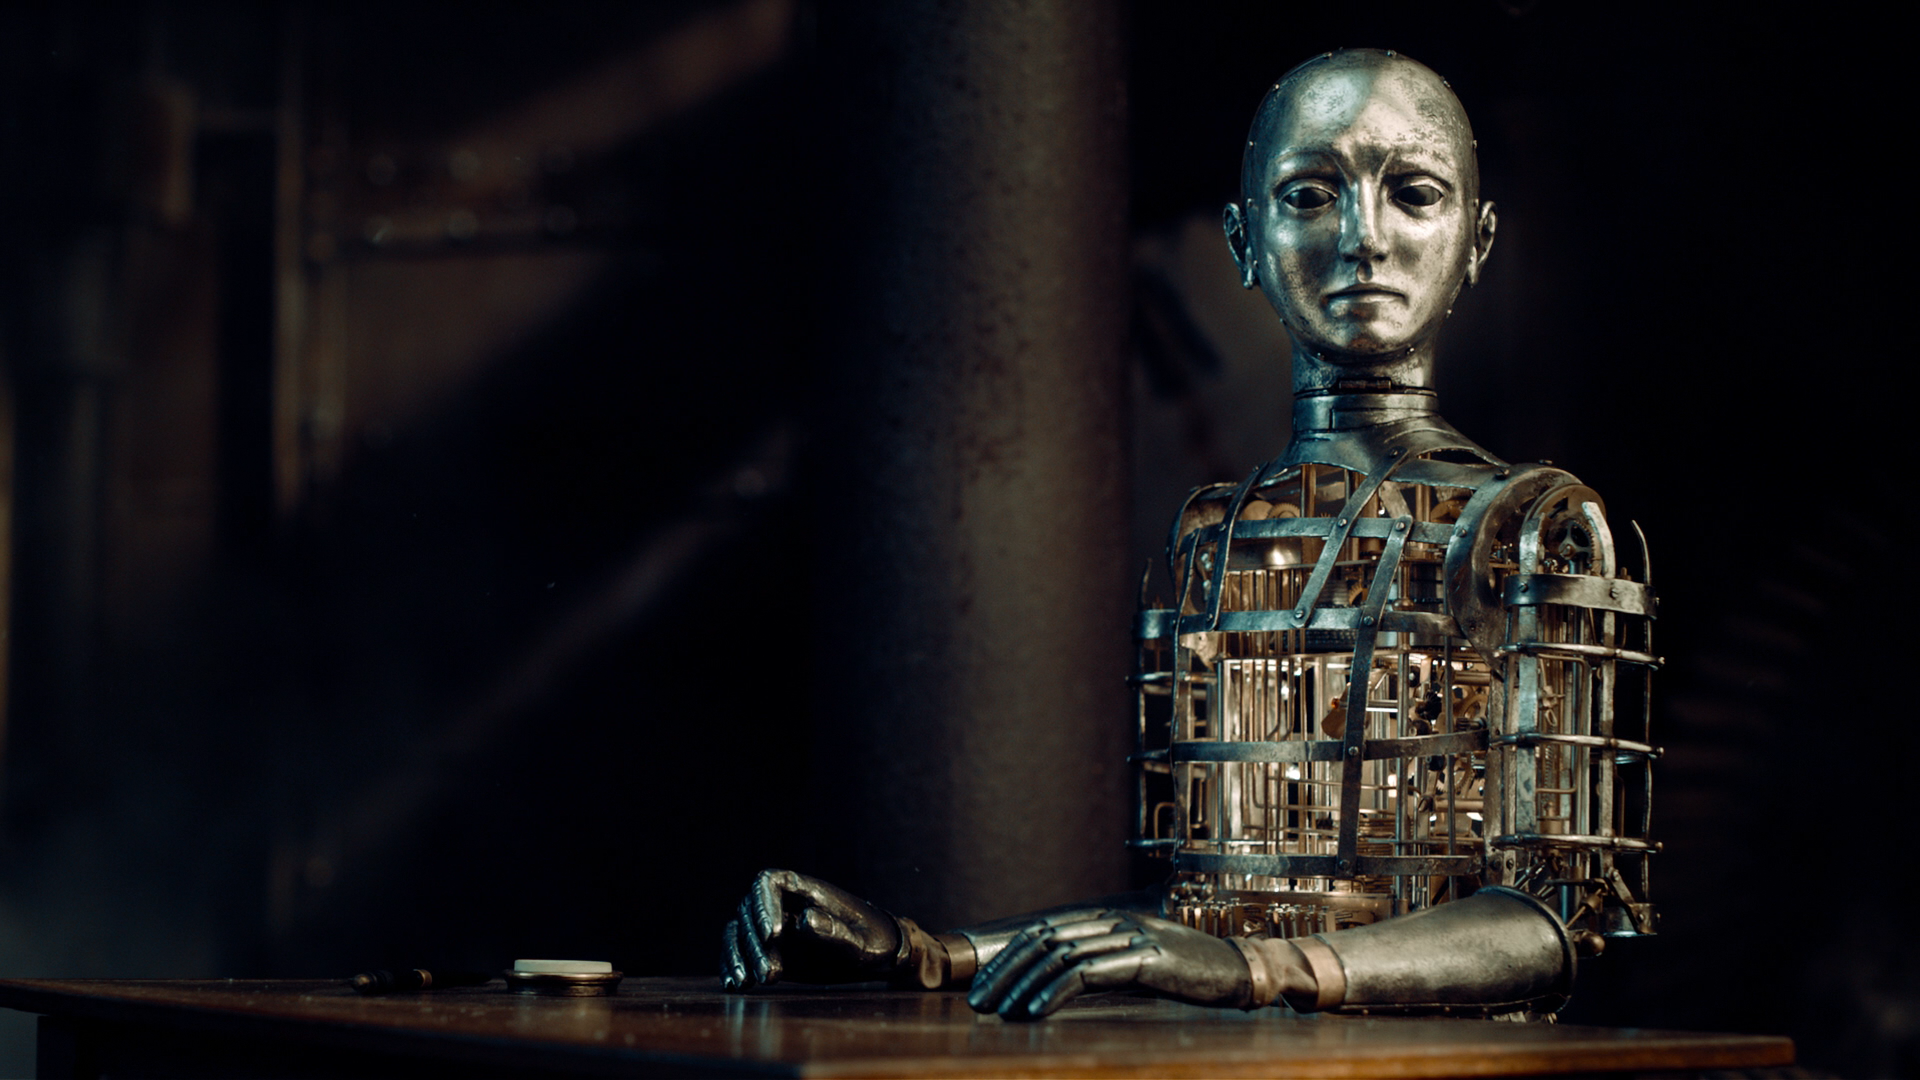
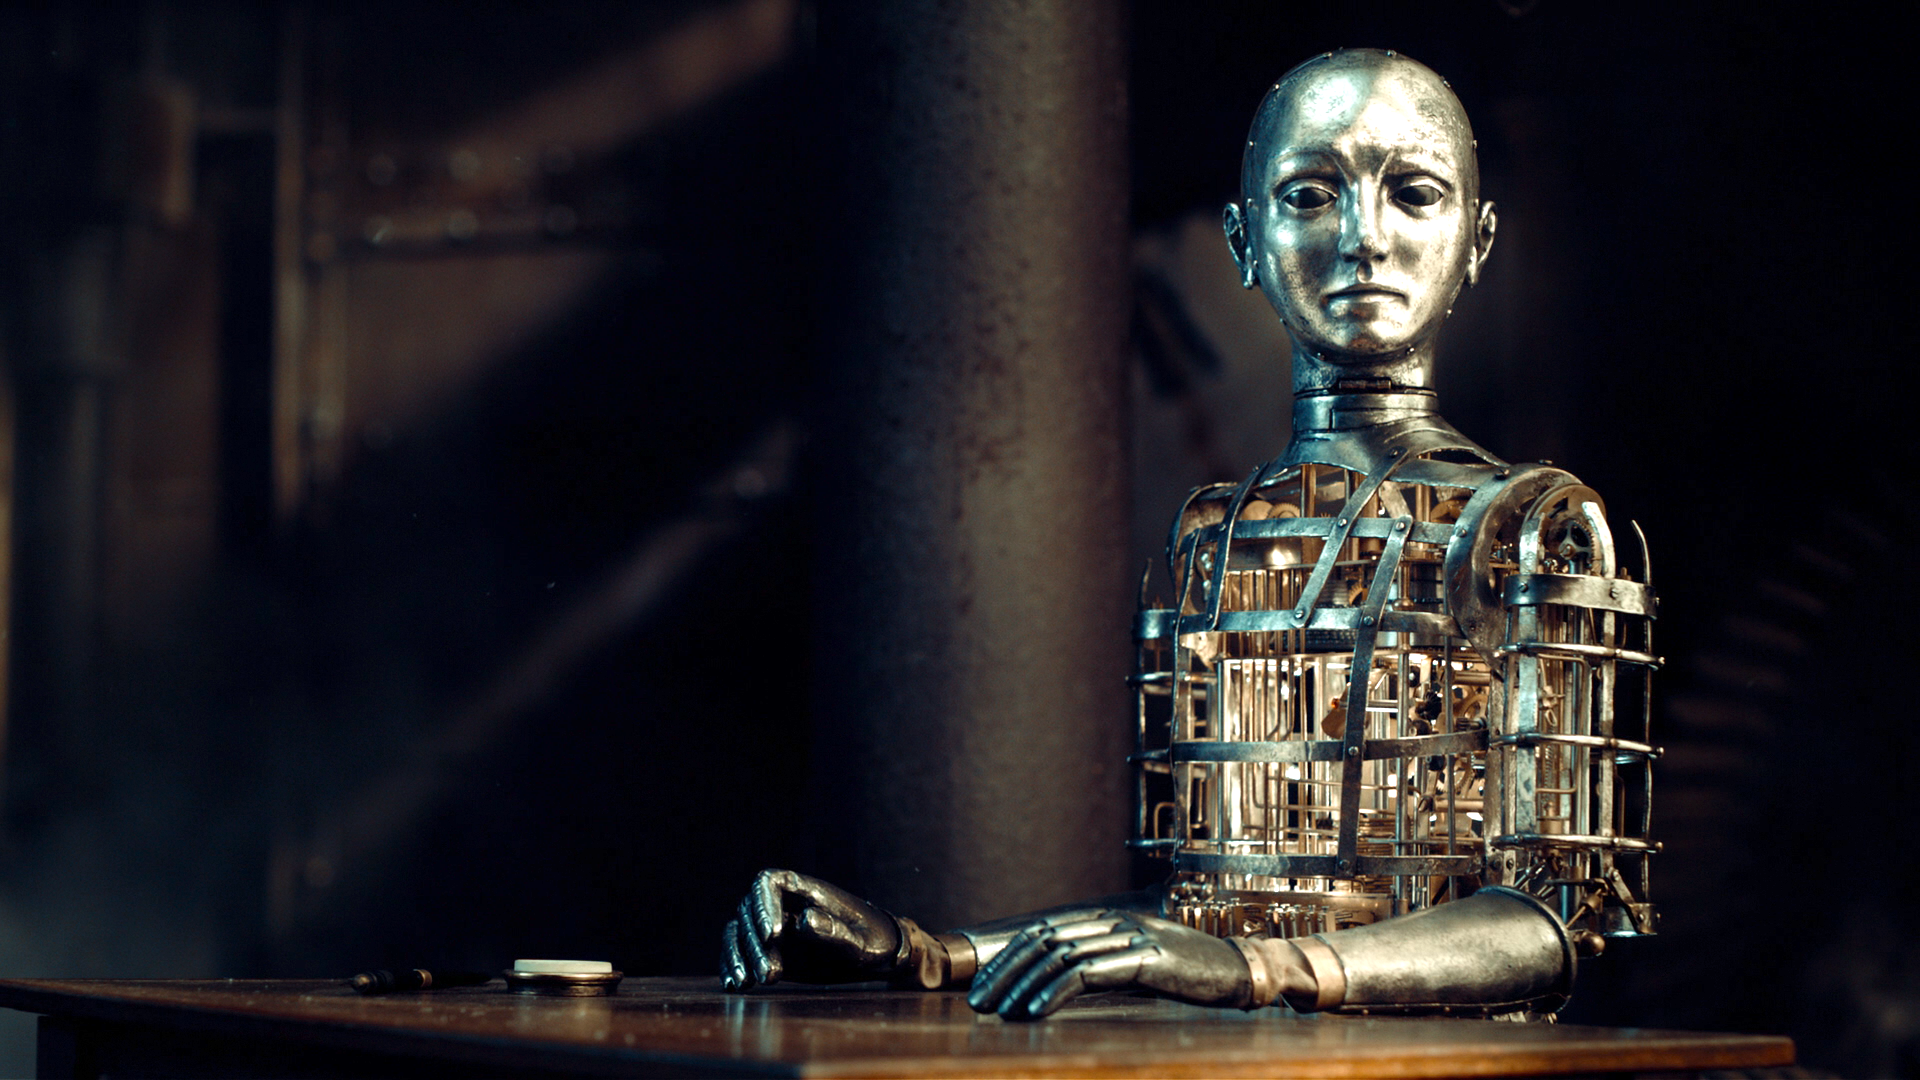
Changes for London presentation

Changed region(s): [[0.375, 0.0306, 0.875, 1.0], [0.5, 0.3667, 0.5625, 0.5806], [0.25, 0.8861, 0.3125, 0.9778]]

diff --git a/assets/themes/cef2018.css b/assets/themes/cef2018.css
@@ -66,7 +66,7 @@ body {
 
 .reveal h3 {
   font-size: 1.4em;
-  color: #28abe2;
+  color: #38bbf2;
   letter-spacing: 2px; }
 
 .reveal h4 {
@@ -78,7 +78,7 @@ body {
 
 .reveal h6 {
   font-size: 1.0em;
-  color: #28abe2; }
+  color: #38bbf2; }
 /*
 .reveal h1 {
   text-shadow: 0 1px 0 #ccc, 0 2px 0 #c9c9c9, 0 3px 0 #bbb, 0 4px 0 #b9b9b9, 0 5px 0 #aaa, 0 6px 1px rgba(0, 0, 0, 0.1), 0 0 5px rgba(0, 0, 0, 0.1), 0 1px 3px rgba(0, 0, 0, 0.3), 0 3px 5px rgba(0, 0, 0, 0.2), 0 5px 10px rgba(0, 0, 0, 0.25), 0 20px 20px rgba(0, 0, 0, 0.15); }
@@ -343,8 +343,8 @@ body {
 {
     border: none;
     box-shadow: none;
-    max-height: calc(75vh);
-    max-width: calc(75vw);
+    max-height: calc(55vh);
+    max-width: calc(55vw);
 }
 
 .slides {

diff --git a/index.html b/index.html
@@ -82,12 +82,11 @@
 				<section>
 					<section data-markdown="slides/04a-assessments.md"></section>
 				</section>
-
+-->
 
 				<section>
 					<section data-markdown="slides/05-considerations.md"></section>
 				</section>
- -->
  
 				<section>
 					<section data-markdown="slides/06-thanks.md"></section><!--  data-background="assets/tr_logo.jpg"></section> -->

diff --git a/slides/05-considerations.md b/slides/05-considerations.md
@@ -1,50 +1,47 @@
-### Culture
+### Takeaways
+
+<!-- .slide: data-background="../assets/takeaways/background.jpg" -->
+
+---
+
+### Takeaways: Culture
+
+<!-- .slide: data-background="../assets/takeaways/background.jpg" -->
 
 - People
-- Process
-- Technology
+  - Skills gaps
+- Process <!-- .element: class="fragment" -->
+  - How does your strategy align <span class="highlight">across</span> process types?
+- Technology <!-- .element: class="fragment" -->
+  - Choose the right tools for your <span class="highlight">culture</span>
 
 Notes:
-
-## The Goal
-
-<!-- - Sustainably enable growth whilst controlling costs -->
-  <!-- - Reduce complexity .element: class="fragment" -->
-  <!-- - Reduce time .element: class="fragment" -->
-  <!-- - Increase quality .element: class="fragment" -->
-  <!-- - Increase safety / reduce risk .element: class="fragment" -->
-
----
-
-### People
-
-- Skills gaps?
-- Anything else?
-
----
-
-### Process
-
-- How does your strategy align across process types?
-
-Note:
   - E.g. what are the overlaps between Innovation, BAU and support?
 
 ---
 
-### Technology
+### Takeaways: The Goal
 
-- Choose the right tools for the job?
-- Choose the right tools for your culture?
+<!-- .slide: data-background="../assets/takeaways/background.jpg" -->
+
+- Sustainably enable growth whilst controlling costs
+  - Reduce <span class="highlight">complexity</span>
+  - Reduce <span class="highlight">time</span>
+  - Increase <span class="highlight">quality</span>
+  - Increase <span class="highlight">safety</span> / reduce <span class="highlight">risk</span>
 
 ---
 
-### Culture: Process Automation Principles
+### Takeaways: Process Automation Principles
 
-- Continuous Improvement <!-- .element: class="fragment" -->
+<!-- .slide: data-background="../assets/takeaways/background.jpg" -->
+
+- Continuous Improvement
   - Do painful processes <span class="highlight">more</span> often!
-  - Build quality/safety in
-  - Create and shorten feedback loops
-  - Use metrics to measure progress
+  - Build quality/safety <span class="highlight">in</span>
+  - Create and shorten <span class="highlight">feedback loops</span>
+  - Use metrics to <span class="highlight">measure progress</span>
 - Fast and light <!-- .element: class="fragment" -->
-  - Smaller batches - faster feedback
+  - Make batches <span class="highlight">smaller</span> - faster feedback
+- Win over the business <!-- .element: class="fragment" -->
+  - <span class="highlight">Hack your culture</span>

diff --git a/slides/04c-disaster-recovery.md b/slides/04c-disaster-recovery.md
@@ -43,19 +43,4 @@
 
 ### Business Outcomes Delivered
 
-- Expert resource reduced <!-- .element: class="fragment" -->
-  - From: 4+
-  - To: 0
-- Total recovery time reduced <!-- .element: class="fragment" -->
-  - From: 6-8 hours
-  - To: < 15 mins
-- Painful event became painless <!-- .element: class="fragment" -->
-  - No longer feared
-- Opened the door to further innovation <!-- .element: class="fragment" -->
-  - Handling more obscure edge cases
-  - Automating customer runbooks
-- Quality and consitency went up <!-- .element: class="fragment" -->
-  - No human error
-- Self-service portal <!-- .element: class="fragment" -->
-- Simplified Operator Process <!-- .element: class="fragment" -->
-  - "Paper" to Digital (Many trees were saved!)
+<img data-src="assets/examples/dr/dr-outcomes.png">

diff --git a/slides/02b-bio.md b/slides/02b-bio.md
@@ -65,16 +65,7 @@ Note:
 
 ### Achievements
 
-- Cycle time: 3-12 months to 1 day <!-- .element: class="fragment" -->
-- Deployment issues: 30+/release to zero <!-- .element: class="fragment" -->
-- 2nd and 3rd-level support escalations: 80% reduction <!-- .element: class="fragment" -->
-- Engineer onboarding and server provisioning: weeks to minutes <!-- .element: class="fragment" -->
-- Reduced Engineering costs: £2m/year saving <!-- .element: class="fragment" -->
-
-Note:
-  - Apple store became the bottleneck for mobile!
-  - Self-service onboarding and provisioning!
-  - Improvements across People, Process and Tech
+<img data-src="assets/background/bio/achievements.png">
 
 ---
 

diff --git a/slides/02a-history.md b/slides/02a-history.md
@@ -13,6 +13,8 @@ Note: General Motors established an _Automation Department_
 
 ---
 
+<!-- .slide: data-background="../assets/background/history/automaton.png" data-background-size="1280px 720px" -->
+
 <div style="width: 50%; margin-left: 5%;">**Automaton:** _a machine which <span class="highlight">performs a range of functions according to a predetermined set of coded instructions</span>_</div>
 
 ---
